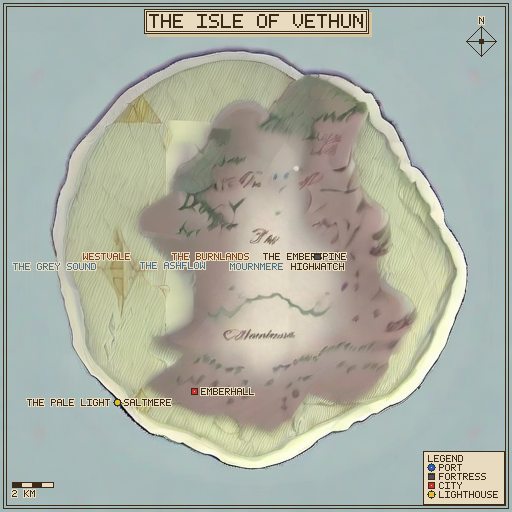
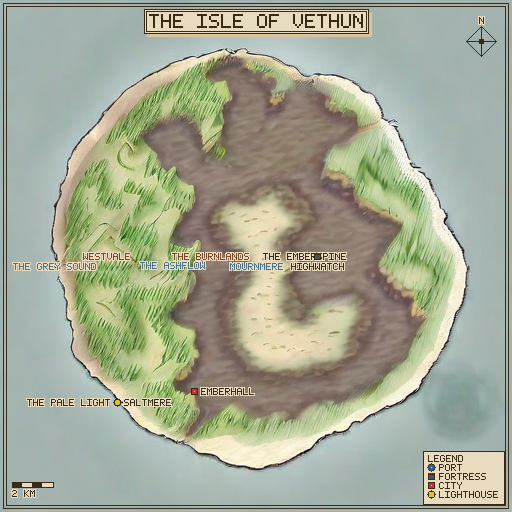
feat(lora): compvis-layout SDXL/SD UNet LoRA support (input_blocks→down_blocks)
A large slice of community SDXL (and SD1.5) LoRAs are kohya-trained against the
ORIGINAL checkpoint block layout — lora_unet_input_blocks_* / _middle_block_* /
_output_blocks_* — while plakat's candle UNet (and its kohya key map, built from
the base) uses the diffusers layout (down_blocks/mid_block/up_blocks). Such a LoRA
merged into the text encoders but 0/N into the UNet, so the dominant visual style
silently did not apply.

compvis_unet_kohya_to_diffusers (pipelines/lora.rs) remaps the block prefix with
the standard layers_per_block=2 stage arithmetic; the sub-module name after the
block (transformer_blocks_*, proj_in/out, to_out_0, ff_net_*) is layout-invariant
and passes through untouched. Hooked into resolve_lora_base as a fallback AFTER the
normal kohya lookup and VALIDATED against the real base keys — a wrong guess simply
fails to match, so it can never corrupt an existing merge.

This lives in the shared merge_loras_into_weights (sd_core), so EVERY LoRA path
benefits — generate, portrait, img2img, scenario, map. Diffusers-layout LoRAs are
unaffected (they hit the first lookup and never reach the remap).

Verified: Muapi/fantasy-map went 0/722 → 722/722 UNet targets merged; the painted
Isle of Vethûn now carries the full fantasy-map style. 4 new unit tests (the exact
fantasy-map prefixes + diffusers/TE-untouched guard). 1379 lib tests.

diff --git a/src/pipelines/lora.rs b/src/pipelines/lora.rs
@@ -968,11 +968,84 @@ fn match_suffix<'a>(k: &'a str, suffixes: &[&str]) -> Option<&'a str> {
     None
 }
 
+/// Take a leading run of ASCII digits off `s`, returning `(value, rest)`.
+fn take_uint(s: &str) -> Option<(usize, &str)> {
+    let end = s.find(|c: char| !c.is_ascii_digit()).unwrap_or(s.len());
+    if end == 0 {
+        return None;
+    }
+    Some((s[..end].parse().ok()?, &s[end..]))
+}
+
+/// Split `"intA_intB_rest"` into `(A, B, rest)`.
+fn take_two_uints(s: &str) -> Option<(usize, usize, &str)> {
+    let (a, r) = take_uint(s)?;
+    let (b, r) = take_uint(r.strip_prefix('_')?)?;
+    Some((a, b, r.strip_prefix('_')?))
+}
+
+/// Remap a **compvis/SAI-layout** kohya UNet key (`lora_unet_input_blocks_*` /
+/// `_middle_block_*` / `_output_blocks_*`) to the **diffusers-layout** kohya key
+/// (`lora_unet_down_blocks_*` / `_mid_block_*` / `_up_blocks_*`) that plakat's
+/// candle UNet uses. A large slice of community SDXL (and SD1.5) LoRAs are
+/// kohya-trained against the original checkpoint layout and would otherwise miss
+/// the UNet entirely (text encoders still merge).
+///
+/// Block arithmetic is the SD/SDXL standard `layers_per_block = 2` → a 3-slot
+/// stage spacing (2 resnets + 1 sampler). The sub-module name *after* the block
+/// (`transformer_blocks_…`, `proj_in`, `proj_out`, `to_out_0`, `ff_net_0_proj`, …)
+/// is identical in both layouts, so it passes through untouched. The result is
+/// validated by the caller against the real base keys — a wrong guess simply
+/// fails to match, so this never corrupts a merge.
+fn compvis_unet_kohya_to_diffusers(key: &str) -> Option<String> {
+    const P: &str = "lora_unet_";
+    let body = key.strip_prefix(P)?;
+
+    if let Some(s) = body.strip_prefix("input_blocks_") {
+        let (ib, sub, rest) = take_two_uints(s)?;
+        if ib == 0 {
+            return None; // conv_in — not a transformer/resnet block
+        }
+        let (i, j) = ((ib - 1) / 3, (ib - 1) % 3);
+        let mapped = match (sub, j) {
+            (1, _) => format!("down_blocks_{i}_attentions_{j}_{rest}"),
+            (0, 2) => format!("down_blocks_{i}_downsamplers_0_{rest}"),
+            (0, _) => format!("down_blocks_{i}_resnets_{j}_{rest}"),
+            _ => return None,
+        };
+        return Some(format!("{P}{mapped}"));
+    }
+    if let Some(s) = body.strip_prefix("middle_block_") {
+        let (sub, rest) = take_uint(s)?;
+        let rest = rest.strip_prefix('_')?;
+        let mapped = match sub {
+            0 => format!("mid_block_resnets_0_{rest}"),
+            1 => format!("mid_block_attentions_0_{rest}"),
+            2 => format!("mid_block_resnets_1_{rest}"),
+            _ => return None,
+        };
+        return Some(format!("{P}{mapped}"));
+    }
+    if let Some(s) = body.strip_prefix("output_blocks_") {
+        let (ob, sub, rest) = take_two_uints(s)?;
+        let (i, j) = (ob / 3, ob % 3);
+        let mapped = match sub {
+            1 => format!("up_blocks_{i}_attentions_{j}_{rest}"),
+            2 => format!("up_blocks_{i}_upsamplers_0_{rest}"),
+            0 => format!("up_blocks_{i}_resnets_{j}_{rest}"),
+            _ => return None,
+        };
+        return Some(format!("{P}{mapped}"));
+    }
+    None
+}
+
 /// Resolve a parsed LoRA base path to an actual key in this target's base
 /// safetensors. Tries (in order):
 ///   1. kohya map lookup
-///   2. PEFT prefix strip for each of this target's `peft_prefixes`
-///   3. no-prefix direct lookup
+///   2. compvis→diffusers UNet remap, then kohya map lookup
+///   3. PEFT prefix strip for each of this target's `peft_prefixes`
+///   4. no-prefix direct lookup
 fn resolve_lora_base(
     lora_base: &str,
     kohya_map: &HashMap<String, String>,
@@ -981,6 +1054,14 @@ fn resolve_lora_base(
 ) -> Option<String> {
     if let Some(k) = kohya_map.get(lora_base) {
         return Some(k.clone());
+    }
+    // Community SDXL/SD1.5 LoRAs often address the UNet with the original
+    // checkpoint's block layout (`input_blocks`/`middle_block`/`output_blocks`);
+    // remap to the diffusers layout the base uses, then retry.
+    if let Some(remapped) = compvis_unet_kohya_to_diffusers(lora_base) {
+        if let Some(k) = kohya_map.get(&remapped) {
+            return Some(k.clone());
+        }
     }
     for prefix in target.peft_prefixes {
         if let Some(rest) = lora_base.strip_prefix(prefix) {
@@ -1243,6 +1324,67 @@ mod tests {
 
     fn parse(s: &str) -> LoraSpec {
         LoraSpec::from_str(s).expect("parses")
+    }
+
+    #[test]
+    fn compvis_unet_keys_remap_to_diffusers() {
+        let m = |k: &str| compvis_unet_kohya_to_diffusers(k);
+        // The exact attention prefixes the Muapi/fantasy-map SDXL LoRA carries.
+        assert_eq!(
+            m("lora_unet_input_blocks_4_1_proj_in").as_deref(),
+            Some("lora_unet_down_blocks_1_attentions_0_proj_in")
+        );
+        assert_eq!(
+            m("lora_unet_input_blocks_5_1_transformer_blocks_0_attn1_to_q").as_deref(),
+            Some("lora_unet_down_blocks_1_attentions_1_transformer_blocks_0_attn1_to_q")
+        );
+        assert_eq!(
+            m("lora_unet_input_blocks_7_1_proj_out").as_deref(),
+            Some("lora_unet_down_blocks_2_attentions_0_proj_out")
+        );
+        assert_eq!(
+            m("lora_unet_input_blocks_8_1_transformer_blocks_3_ff_net_0_proj").as_deref(),
+            Some("lora_unet_down_blocks_2_attentions_1_transformer_blocks_3_ff_net_0_proj")
+        );
+        assert_eq!(
+            m("lora_unet_middle_block_1_transformer_blocks_0_attn2_to_out_0").as_deref(),
+            Some("lora_unet_mid_block_attentions_0_transformer_blocks_0_attn2_to_out_0")
+        );
+        assert_eq!(
+            m("lora_unet_output_blocks_0_1_proj_in").as_deref(),
+            Some("lora_unet_up_blocks_0_attentions_0_proj_in")
+        );
+        assert_eq!(
+            m("lora_unet_output_blocks_2_1_transformer_blocks_9_attn1_to_v").as_deref(),
+            Some("lora_unet_up_blocks_0_attentions_2_transformer_blocks_9_attn1_to_v")
+        );
+        assert_eq!(
+            m("lora_unet_output_blocks_5_1_proj_out").as_deref(),
+            Some("lora_unet_up_blocks_1_attentions_2_proj_out")
+        );
+        // Resnets + samplers map their block prefix too.
+        assert_eq!(
+            m("lora_unet_input_blocks_3_0_op").as_deref(),
+            Some("lora_unet_down_blocks_0_downsamplers_0_op")
+        );
+        assert_eq!(
+            m("lora_unet_output_blocks_2_2_conv").as_deref(),
+            Some("lora_unet_up_blocks_0_upsamplers_0_conv")
+        );
+        assert_eq!(
+            m("lora_unet_middle_block_0_in_layers_2").as_deref(),
+            Some("lora_unet_mid_block_resnets_0_in_layers_2")
+        );
+    }
+
+    #[test]
+    fn diffusers_and_te_keys_are_not_remapped() {
+        // Already-diffusers UNet keys + text-encoder keys must be left alone
+        // (return None so the normal lookup path handles them unchanged).
+        assert!(compvis_unet_kohya_to_diffusers("lora_unet_down_blocks_1_attentions_0_proj_in").is_none());
+        assert!(compvis_unet_kohya_to_diffusers("lora_te1_text_model_encoder_layers_0_self_attn_q_proj").is_none());
+        assert!(compvis_unet_kohya_to_diffusers("lora_unet_conv_in").is_none());
+        assert!(compvis_unet_kohya_to_diffusers("lora_unet_input_blocks_0_0_op").is_none()); // conv_in
     }
 
     #[test]

diff --git a/Documentation/ROADMAP_1.6.0.md b/Documentation/ROADMAP_1.6.0.md
@@ -33,14 +33,18 @@ Status: `[ ]` open · `[x]` done · `[~]` in progress.
 - [x] **Label/furniture re-composite — DONE.** `render::apply_labels_and_furniture`
       (factored out of `render`) re-applies the 1.5.0 labels + furniture **over** the
       SD output so the painted map stays legible; `--map-sd-raw` skips it.
-- [ ] **compvis-layout SDXL LoRA support (NEXT).** The fantasy-map LoRA — and a large
-      slice of community SDXL LoRAs — use the **compvis block layout**
-      (`lora_unet_input_blocks_*`/`middle_block`/`output_blocks`); plakat's loader only
-      matches the **diffusers layout** (`down_blocks`/`mid_block`/`up_blocks`), so such
-      a LoRA merges into the text encoders but **0/722 into the UNet**. Add a
-      compvis→diffusers SDXL-UNet key remap in `pipelines/lora.rs` (analogous to the
-      SD3 `remap_diffusers_mmdit`) so the UNet style actually applies. General win
-      (all kohya-format SDXL LoRAs), needs careful index-mapping tests.
+- [x] **compvis-layout SDXL LoRA support — DONE.** `pipelines/lora.rs`
+      `compvis_unet_kohya_to_diffusers` remaps compvis/SAI block keys
+      (`lora_unet_input_blocks_*`/`_middle_block_*`/`_output_blocks_*`) to the
+      diffusers layout (`down_blocks`/`mid_block`/`up_blocks`) the candle UNet uses,
+      hooked into `resolve_lora_base` as a fallback **after** the normal lookup and
+      **validated against the real base keys** (a wrong guess just doesn't match — no
+      regression). Standard `layers_per_block=2` stage arithmetic; the sub-module name
+      after the block is layout-invariant and passes through. Lives in the shared
+      `merge_loras_into_weights` (sd_core), so **every** LoRA path benefits (generate /
+      portrait / img2img / scenario / map). Verified: `Muapi/fantasy-map` went from
+      **0/722 → 722/722** UNet targets merged; the painted Isle of Vethûn carries the
+      full style. 2 remap unit tests + diffusers/TE-untouched guard.
 - [ ] **Tiled multi-tile render** — reuse the **`plakat.tiled.*`** SDXL hi-res
       machinery (base-anchored tiling) to cover larger tile grids tile-by-tile with
       overlap blending, so a 4×4 map renders without a single giant allocation.
